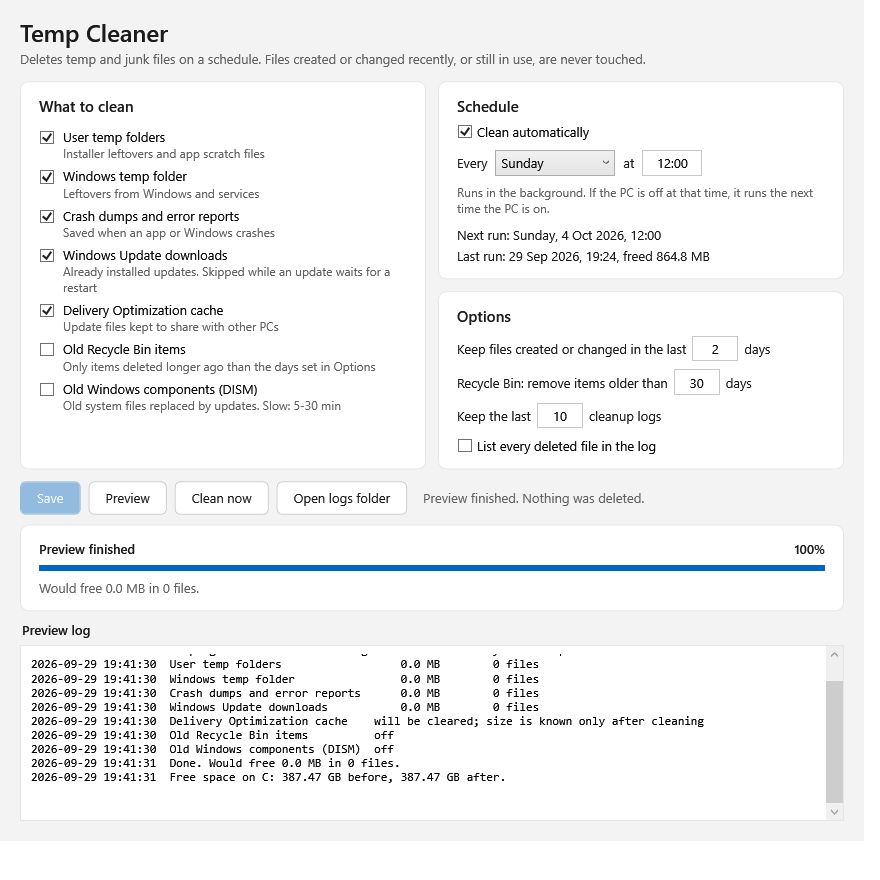
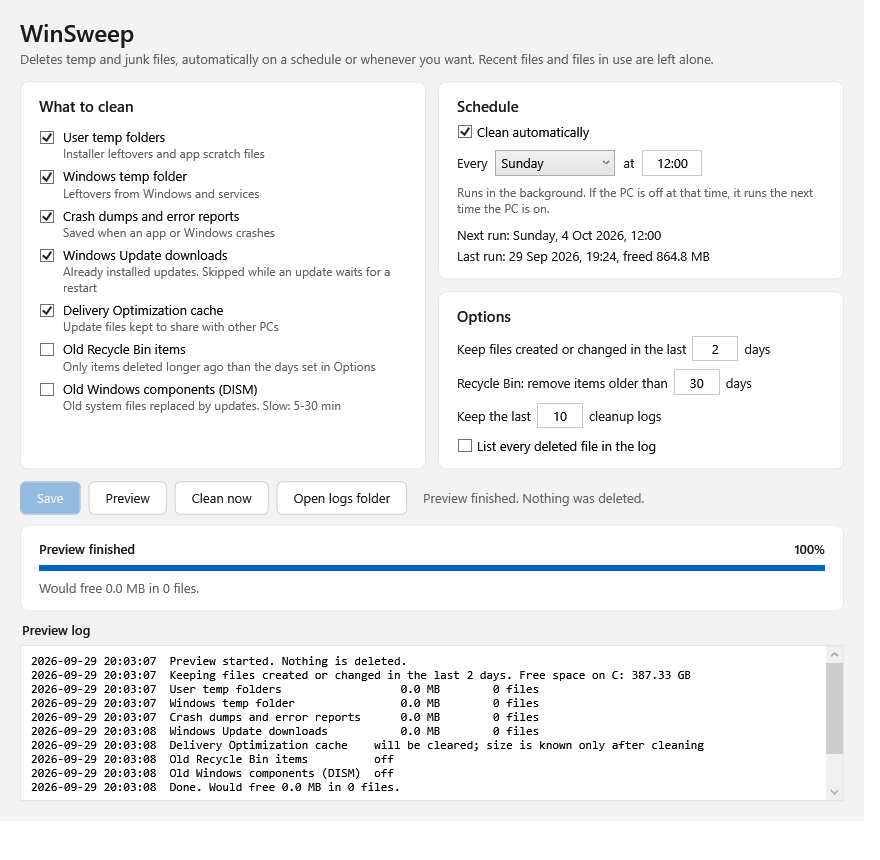
Rename project to WinSweep
Rename the scripts, install folder, scheduled task and Start menu
shortcut. The installer replaces an existing "Temp Cleaner" install and
keeps its settings and logs. Rewrite the README and add a new screenshot.

diff --git a/README.md b/README.md
@@ -1,151 +1,119 @@
-# Temp Cleaner
+# WinSweep
 
-**A small, open-source Windows tool that deletes temp and junk files once a week, in the background.**
-No ads, no internet connection, no bundled software. Just readable PowerShell scripts you can check yourself.
+WinSweep deletes temp and junk files on Windows. It runs automatically on a schedule you choose, and
+you can also start a cleanup yourself at any time. It's a few PowerShell scripts and a small settings
+window. It doesn't connect to the internet, and the only things it adds to your system are a scheduled
+task and a Start menu shortcut.
 
 [![License: MIT](https://img.shields.io/badge/license-MIT-blue.svg)](LICENSE)
 ![Windows 10 | 11](https://img.shields.io/badge/Windows-10%20%7C%2011-0078D6)
 ![PowerShell 5.1](https://img.shields.io/badge/PowerShell-5.1-5391FE)
-![No network access](https://img.shields.io/badge/network-none-success)
 
-![Temp Cleaner settings window](docs/screenshot.png)
-
-## Contents
-
-- [Why you can trust it](#why-you-can-trust-it)
-- [Install](#install)
-- [Use](#use)
-- [What it cleans](#what-it-cleans)
-- [What it never touches](#what-it-never-touches)
-- [How it works](#how-it-works)
-- [Uninstall](#uninstall)
-- [FAQ](#faq)
-- [Files in this repository](#files-in-this-repository)
-- [License](#license)
-
-## Why you can trust it
-
-| | |
-|---|---|
-| **Open source, nothing hidden** | About 1,000 lines of plain PowerShell. No `.exe`, no compiled code. Open any file in Notepad and read what it does. |
-| **No internet access** | The scripts never connect to the internet. No telemetry, no updates from a server, no data leaves your PC. |
-| **Only known junk folders** | It deletes only in the folders listed under [What it cleans](#what-it-cleans). The exact paths are in `CleanTemp.ps1`. |
-| **Recent files are safe** | A file is deleted only if it was neither created nor changed in the last 2 days (you can raise this). Files that apps are using right now are skipped. |
-| **Try before you trust** | **Preview** shows exactly what would be deleted, and deletes nothing. |
-| **Everything is logged** | Each cleanup writes a log of what it removed to `C:\ProgramData\TempCleaner\logs`. |
-| **Easy to remove** | `Uninstall.cmd` removes the task, the shortcut and the program folder. Nothing is left behind. |
+![WinSweep settings window](docs/screenshot.png)
 
 ## Install
 
-1. [**Download the ZIP**](https://github.com/hight1337/TempCleaner/archive/refs/heads/main.zip), or click the green **Code** button above, then **Download ZIP**.
-2. Unzip it anywhere.
-3. Open the unzipped folder and double-click **`Install.cmd`**. Click **Yes** when Windows asks for admin permission.
+1. [Download the ZIP](https://github.com/hight1337/WinSweep/archive/refs/heads/main.zip) (or use **Code > Download ZIP** on this page).
+2. Unzip it.
+3. Double-click `Install.cmd` and allow the admin prompt.
 
-> **"Windows protected your PC"?** Click **More info**, then **Run anyway**.
-> Windows shows this for every downloaded script that is not signed with a paid certificate. It is not a virus warning.
+Windows will probably show "Windows protected your PC", because the scripts aren't signed. Click
+**More info**, then **Run anyway**. If you want to check the code first, every file is plain text and
+opens in Notepad.
 
-Requirements: Windows 10 or 11. PowerShell 5.1 is already part of Windows, so there is nothing else to install.
+You need Windows 10 or 11. PowerShell 5.1 comes with Windows, so there's nothing else to install.
 
-## Use
+## Using it
 
-Open **Start menu > Temp Cleaner**. Windows asks for admin permission each time, because cleaning system folders needs it.
+After you install it, WinSweep runs automatically every Sunday at 12:00. You can pick a different day
+and time, or turn automatic runs off. If the PC is off at the scheduled time, it runs the next time you
+turn it on.
 
-| Button | What it does |
-|---|---|
-| **Preview** | Shows what would be deleted and how much space it would free. **Nothing is deleted.** |
-| **Clean now** | Deletes the selected junk files now, with a progress bar and a live log. |
-| **Stop** | Stops a running cleanup. |
-| **Save** | Saves your choices and the schedule. |
-| **Open logs folder** | Opens the folder with the cleanup logs. |
+To change anything, open **WinSweep** from the Start menu. There you can choose what to clean, change
+the day and time, click **Preview** to see what would be deleted (nothing is deleted), or **Clean now**.
+Each cleanup writes a log to `C:\ProgramData\WinSweep\logs`, and the last 10 logs are kept.
 
-By default it cleans **every Sunday at 12:00**. If the PC is off at that time, it cleans the next time the PC is on.
+## What gets deleted
 
-## What it cleans
+A file is deleted only if it was created and last changed more than 2 days ago. Files that are in use
+are skipped. You can change the 2 days in the settings window.
 
 On by default:
 
-| Item | Folder | What it is |
-|---|---|---|
-| User temp folders | `C:\Users\<name>\AppData\Local\Temp` | Installer leftovers and app scratch files |
-| Windows temp folder | `C:\Windows\Temp` | Leftovers from Windows and services |
-| Crash dumps and error reports | `C:\Windows\Minidump`, `C:\Windows\LiveKernelReports`, `C:\ProgramData\Microsoft\Windows\WER`, `C:\Users\<name>\AppData\Local\CrashDumps` | Saved when an app or Windows crashes |
-| Windows Update downloads | `C:\Windows\SoftwareDistribution\Download` | Updates that are already installed. **Skipped while an update waits for a restart.** |
-| Delivery Optimization cache | Managed by Windows | Update files kept to share with other PCs. Cleared with the built-in `Delete-DeliveryOptimizationCache` command. |
+- `C:\Users\<name>\AppData\Local\Temp`, for every user
+- `C:\Windows\Temp`
+- Crash dumps and error reports: `C:\Windows\Minidump`, `C:\Windows\LiveKernelReports`,
+  `C:\ProgramData\Microsoft\Windows\WER` and `AppData\Local\CrashDumps` for every user
+- Windows Update downloads in `C:\Windows\SoftwareDistribution\Download`. This is skipped while an
+  update is waiting for a restart.
+- The Delivery Optimization cache, cleared with Windows' own `Delete-DeliveryOptimizationCache`
 
-Off by default (turn on in the window if you want):
+Off by default:
 
-| Item | What it is |
-|---|---|
-| Old Recycle Bin items | Only items deleted more than 30 days ago (you can change the number) |
-| Old Windows components | Runs the built-in `DISM /Online /Cleanup-Image /StartComponentCleanup`. Slow: 5-30 minutes |
+- Recycle Bin items deleted more than 30 days ago
+- `DISM /Online /Cleanup-Image /StartComponentCleanup`, which removes old versions of Windows
+  components. It takes 5 to 30 minutes.
 
-## What it never touches
+## What it doesn't touch
 
-- Your documents, downloads, desktop, pictures and any other personal files
-- Files created or changed in the last 2 days, and files that are in use
-- Anything outside the folders listed above. It never follows links (junctions or symlinks) out of those folders.
-- Browser caches, Prefetch and event logs. Clearing those makes Windows or apps slower, or removes information you need when troubleshooting.
-- Windows settings and the registry
+Your own files (Documents, Downloads, Desktop and so on), browser caches, Prefetch, event logs, the
+registry and Windows settings. It doesn't follow junctions or symlinks either, so it can't reach
+anything outside the folders listed above.
+
+Browser caches and Prefetch are left alone on purpose. Clearing them mostly makes things slower for a
+while, and they fill up again anyway.
 
 ## How it works
 
+`Install.cmd` copies the scripts to `C:\ProgramData\WinSweep` and sets that folder so only
+administrators can change them. That matters because the scheduled task runs the cleaner as SYSTEM.
+Then it registers a scheduled task named `WinSweep` and adds the Start menu shortcut.
+
+`WinSweep.ps1` does the cleaning. It reads folders with the .NET file APIs instead of `Get-ChildItem`,
+which is about 10 times faster on large folders. On my PC it scans the Windows Update folder (about
+200,000 files) in around a second. Only one cleanup can run at a time.
+
+To try the cleaner without installing it or deleting anything, run this in the unzipped folder:
+
+```powershell
+powershell -NoProfile -ExecutionPolicy Bypass -File .\WinSweep.ps1 -DryRun
 ```
-Install.cmd
-  └─ copies the scripts to C:\ProgramData\TempCleaner (only admins can change them there)
-  └─ adds the weekly task "TempCleaner" in Task Scheduler (runs as SYSTEM)
-  └─ adds the "Temp Cleaner" Start menu shortcut
-
-Every week, or when you click Clean now
-  └─ CleanTemp.ps1 lists each folder, keeps recent and in-use files,
-     deletes the rest and writes a log
-```
-
-Details:
-
-- **Fast.** It uses Windows' file functions directly, so it scans about 200,000 files in about 1 second.
-- **One run at a time.** The weekly run and **Clean now** can't overlap.
-- **Settings** are saved in `C:\ProgramData\TempCleaner\settings.json`.
-- **Logs:** the last 10 are kept in `C:\ProgramData\TempCleaner\logs`.
 
 ## Uninstall
 
-Double-click **`Uninstall.cmd`** and click **Yes**. This removes the weekly task, the Start menu shortcut and `C:\ProgramData\TempCleaner`.
+Double-click `Uninstall.cmd`. It removes the scheduled task, the Start menu shortcut and
+`C:\ProgramData\WinSweep`, including your settings and logs.
 
 ## FAQ
 
 **Can I get deleted files back?**
-No. Files are deleted directly, not moved to the Recycle Bin. That is why **Preview** exists and why recent files are always kept.
+No. Files are deleted, not moved to the Recycle Bin. Run Preview first if you're not sure.
 
 **Why does it need admin rights?**
-`C:\Windows\Temp`, the Windows Update folder and the scheduled task all need admin rights. The window asks each time you open it, and the installer asks once.
+Cleaning `C:\Windows\Temp` and the Windows Update folder needs them, and so does creating the
+scheduled task.
 
-**Will it slow my PC down?**
-No. It runs once a week for a few seconds in the background. Deleting temp files does not affect how fast apps start.
+**Does it send any data anywhere?**
+No. There's no network code in the scripts.
 
-**Does it work on other languages of Windows?**
-Yes. It uses language-independent system names everywhere.
+**Does it work on Windows in other languages?**
+Yes.
 
-**Can I change the schedule or what gets cleaned?**
-Yes. Open **Start menu > Temp Cleaner**, change the options and click **Save**.
+## Files
 
-## Files in this repository
-
-| File | Purpose |
+| File | What it does |
 |---|---|
-| `CleanTemp.ps1` | The cleaner. Run by the weekly task and by the window |
-| `TempCleanerUI.ps1` | The settings window |
-| `Install-TempCleaner.ps1` | Installer: copies the scripts, locks the program folder to admins, registers the task, adds the shortcut |
-| `Uninstall-TempCleaner.ps1` | Removes everything the installer added |
-| `Install.cmd`, `Uninstall.cmd` | Double-click wrappers for the two scripts |
+| `WinSweep.ps1` | The cleaner. The scheduled task and the settings window both run it |
+| `WinSweepUI.ps1` | The settings window |
+| `Install-WinSweep.ps1` | Copies the scripts, sets folder permissions, creates the task and the shortcut |
+| `Uninstall-WinSweep.ps1` | Removes everything the installer added |
+| `Install.cmd`, `Uninstall.cmd` | Double-click these instead of running the scripts directly |
 
-Try the cleaner from this folder without deleting anything:
+## Contributing
 
-```powershell
-powershell -NoProfile -ExecutionPolicy Bypass -File .\CleanTemp.ps1 -DryRun
-```
-
-Found a bug or have an idea? [Open an issue](../../issues).
+Bug reports and pull requests are welcome in [Issues](../../issues). If WinSweep is useful to you, a
+star helps other people find it.
 
 ## License
 
-[MIT](LICENSE). Free to use, change and share. No warranty: use at your own risk, and try **Preview** first.
+[MIT](LICENSE)
